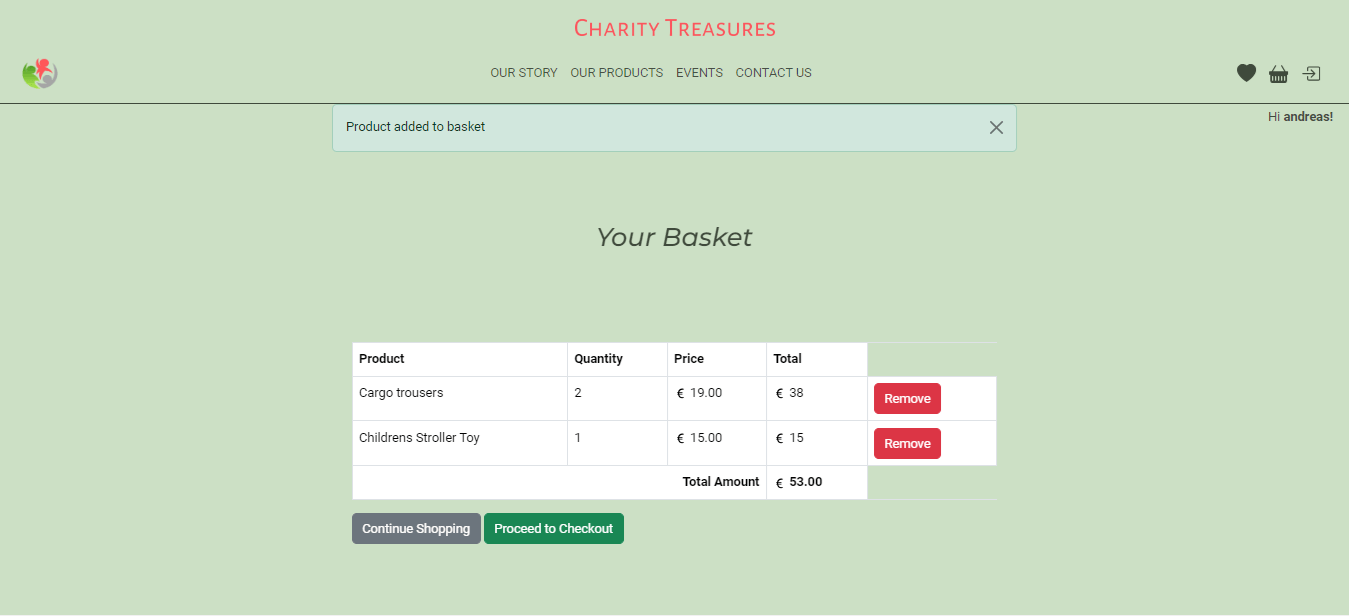
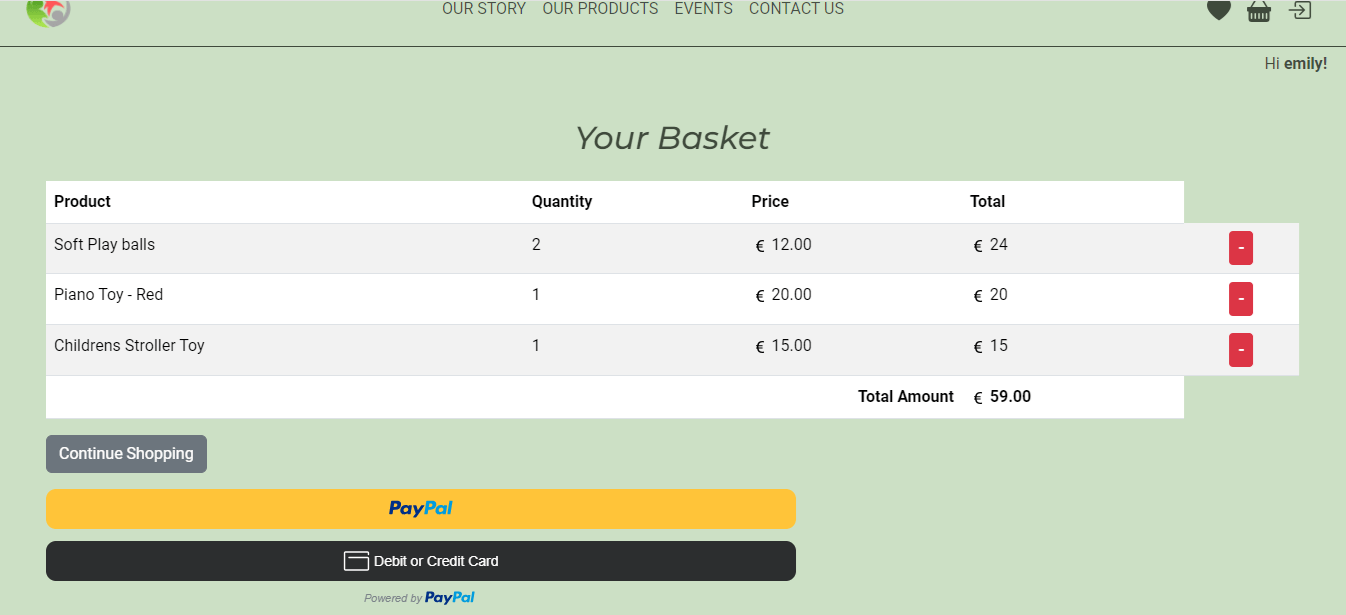
update content in the readme

diff --git a/README.md b/README.md
@@ -118,13 +118,13 @@ This website utilizes numerous features from an e-commerce website and a blog. A
 
 ### Navigation Bar
 
-The navigation bar is shown in all pages and it provides an easy way to navigate throughout the whole website. On the left side the logo of the organization is shown and it is also a link to the home page. A link to the home page is the organization's name on the top which is displayed continuously in all displays. On the right side the user icons are found which they are only shown if the user is authenticated, otherwise just a login icon is shown. Through the user icons, the users can navigate to their favorite page, where their favorite products are stored, to the their basket so they can proceed to check out or to remove the selected products and also to log out.
+The navigation bar is shown in all pages and it provides an easy way to navigate throughout the whole website. On the left side the logo of the organization is shown and it is also a link to the home page. A link to the home page is the organization's name on the top which is displayed continuously in all displays. On the right side the user icons are found which they are only shown if the user is authenticated, otherwise just a login icon is shown. Also, if the user is a superuser an additional selection appears to allow the superuser to access the Admin Panel. Through the user icons, the users can navigate to their favorite page, where their favorite products are stored, to the their basket so they can proceed to check out or to remove the selected products and also to log out.
 
 <details>
 <summary>Navigation Bar</summary>
 
 ![Navigation Bar](https://github.com/parides55/charity_shop/blob/main/Readme_docs/screenshots/desktop_navigation_bar.png)
-![User icons](https://github.com/parides55/charity_shop/blob/main/Readme_docs/screenshots/desktop_user_icons.png)
+![User icons](https://github.com/parides55/charity_shop/blob/main/Readme_docs/screenshots/desktop_user_icons.png)![User icons for superuser](https://github.com/parides55/charity_shop/blob/main/Readme_docs/screenshots/desktop_user_icons_super.png)
 
 </details>
 
@@ -231,13 +231,20 @@ In this page the user can view their selected products. The products are display
 
 ### Basket
 
-This page displays all the items that the user intents to buy. The items are presented in a table format where the Product's title, the quantity, the price per item and the total price for the item is shown. At the bottom of the table the total amount of the order is shown. Also, next to each item there's a 'Remove' button so the user can remove any item. When clicked, a clicked a confirmation message is displayed on the top of the page indicating successful or not removal. At the bottom of the table there are 2 buttons. The 'Continue Shopping' button will redirect the user to the products page and the 'Proceed to Checkout' button will take the user to the payment link provided by Stripe. After successful payment the Stripe website will take the user back to the 'Charity Treasures' website and will show a 'Thank for your payment' message and display 2 buttons. One to search for more products and one to view the events. Lastly, after successful payment the user's items are deleted from their basket.
+This page displays all the items that the user intents to buy. The items are presented in a table format where the Product's title, the quantity, the price per item and the total price for the item is shown. At the bottom of the table the total amount of the order is shown. Also, next to each item there's a '-' button to allow the user to remove any item. When clicked, a confirmation message is displayed on the top of the page indicating successful or not removal. At the bottom of the table the 'Continue Shopping' button will redirect the user to the products page and the 'Proceed to Checkout' button will take the user to the payment link provided by Stripe. After successful payment, the user is directed to the 'Thank for your payment' page and 2 buttons are displayed. One to search for more products and one to view the events. Lastly, after successful payment the user's items are deleted from their basket.
 
-Because this website is not registered yet with any authorities as an approved charity organization, the transaction happening in the Stripe payment link is in the test mode. Thus only one product is shown for purchase and in order for the purchase to be successful the following credit card details have to be inserted:
+Because this website is not registered yet with any authorities as an approved charity organization, to handle payments, I'm use a sandbox account from Paypal, which takes the total amount and depending on the user's choice it simulates a transaction. To use the Paypal Button, the user has to be registered with paypal. TO use the "Debit or Credit Card" option the following cards,from the [Paypal's Card Testing](https://developer.paypal.com/api/rest/sandbox/card-testing/) webpage have been used and tested successfully:
 
-Card Number : 4242 4242 4242 4242
-Expiry date: Any future date
-CVV number: Any 3 digit number
+<details>
+<summary> Test Credit Cards</summary>
+
+- Use a test card number with a future expiration date and a 3-digit CVV.
+
+- Visa: 4005519200000004
+- Mastercard: 2223000048400011
+- Maestro: 6304000000000000
+
+</details>
 
 <details>
 <summary>Basket</summary>
